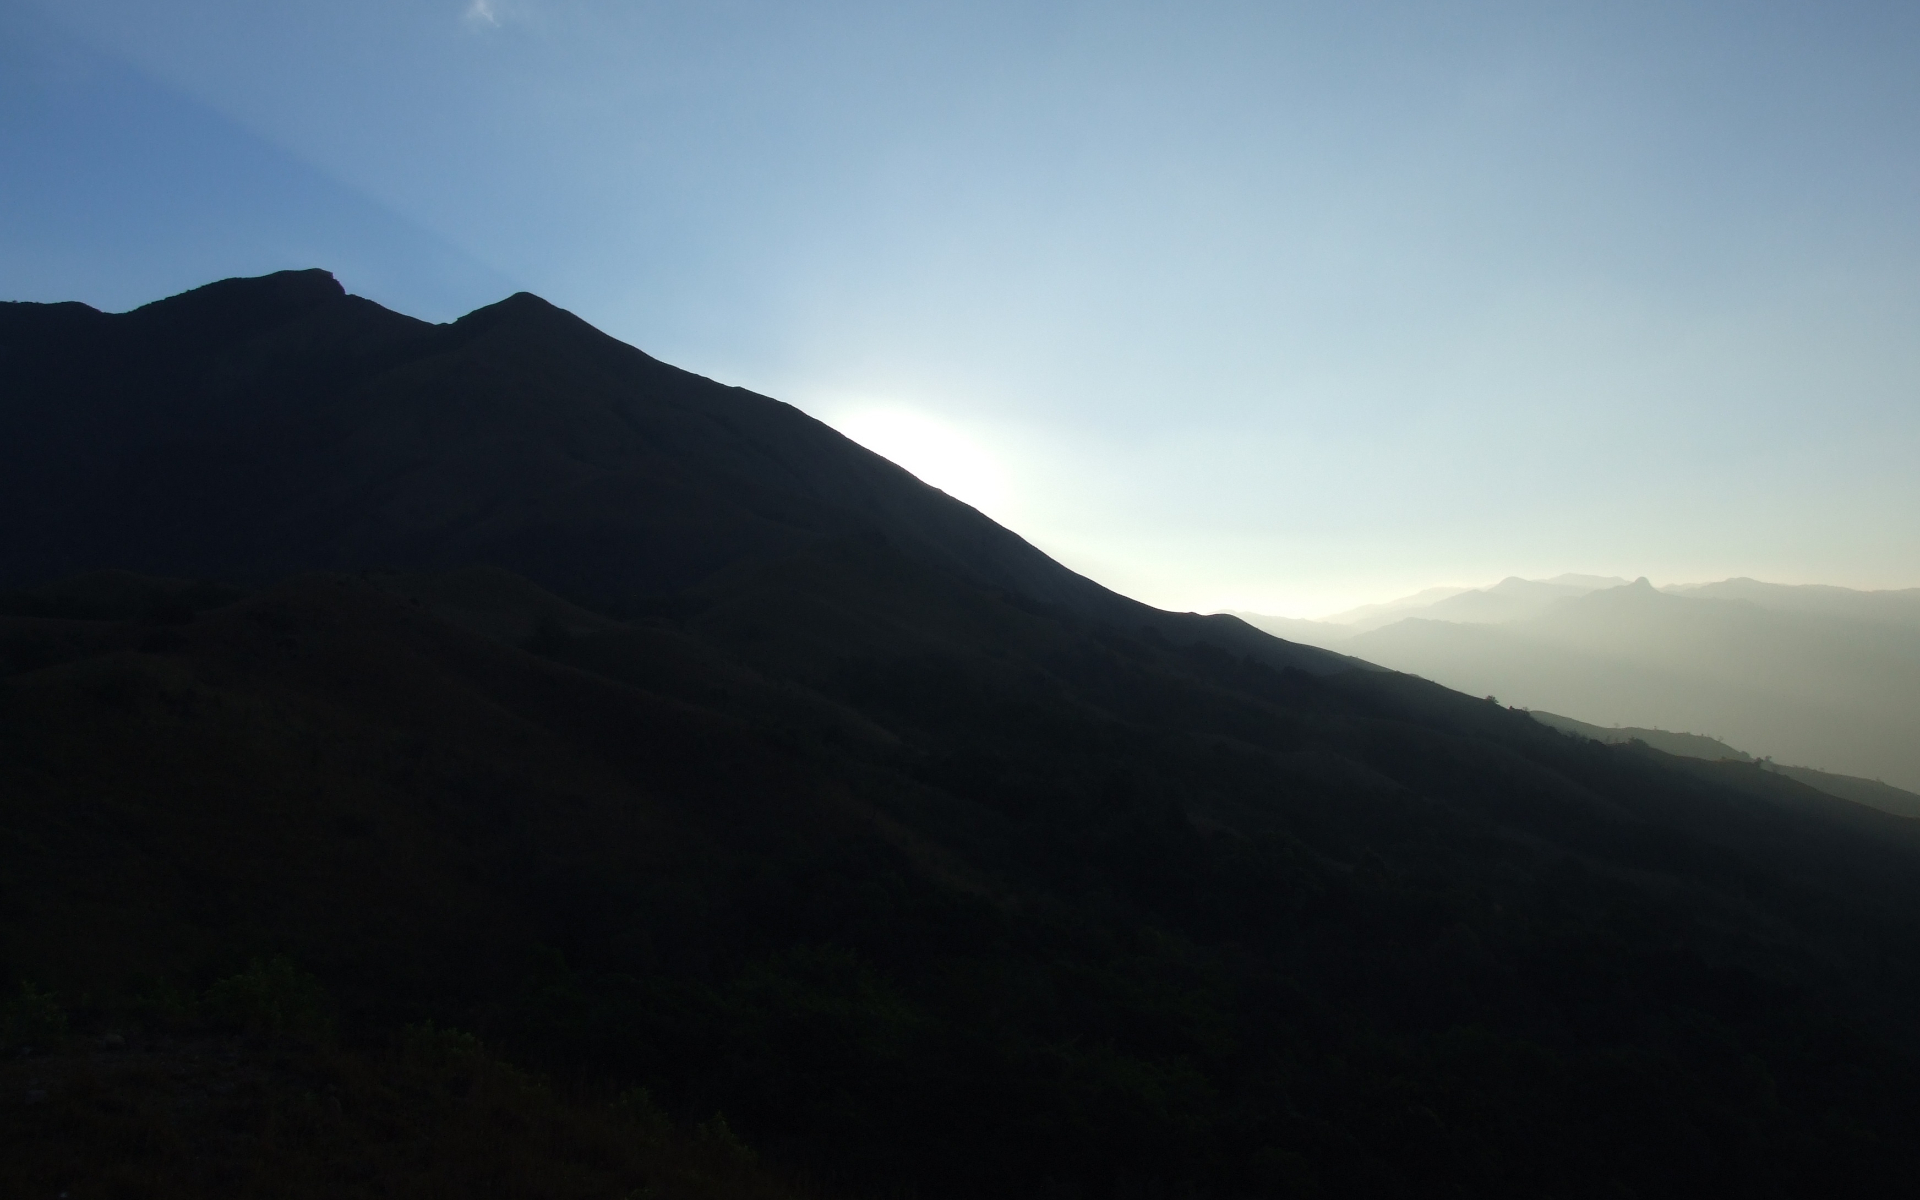
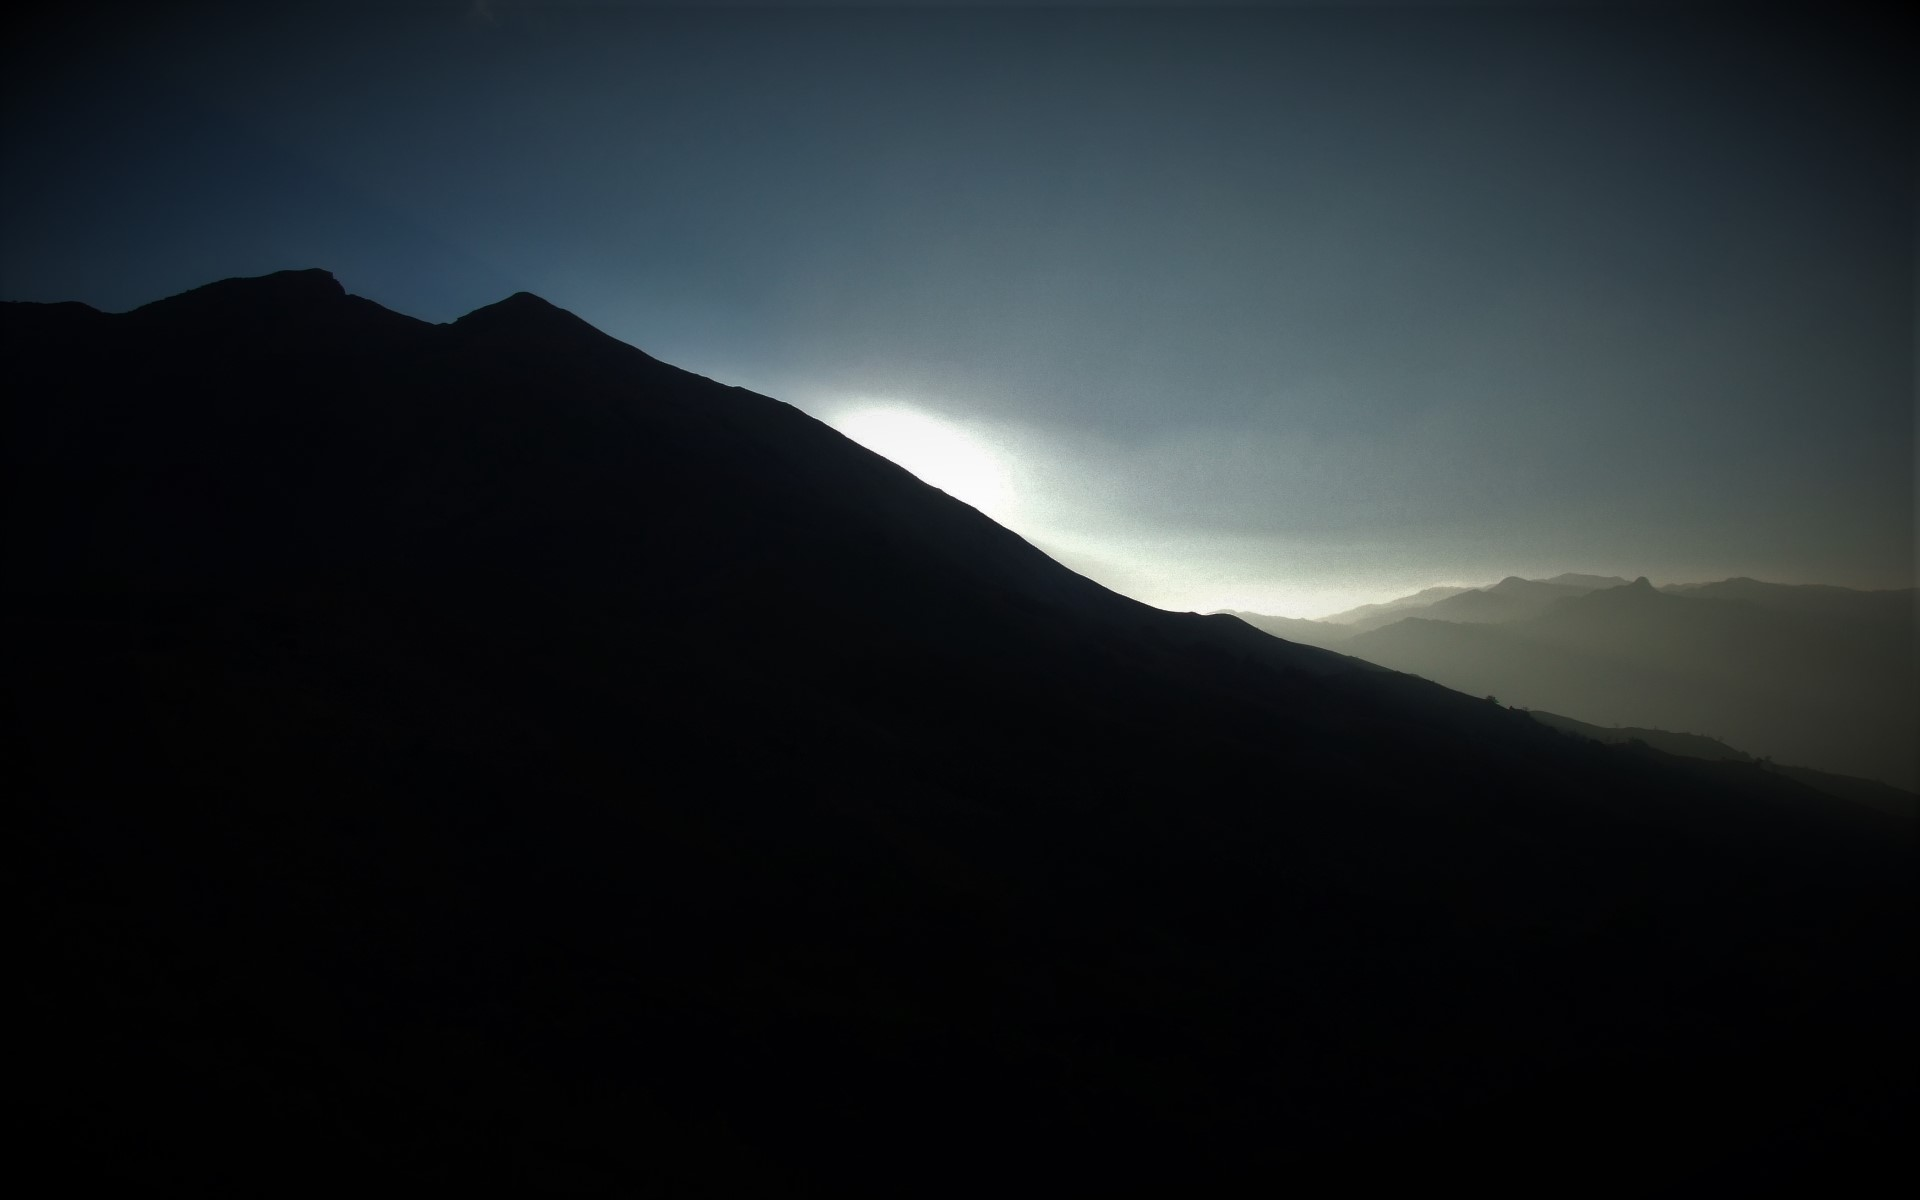
background updates

diff --git a/index.html b/index.html
@@ -64,7 +64,7 @@
         <div class="carousel-inner" role="listbox">
 
           <div class="carousel-item active">
-            <img src="img/hero-bg.jpg" width="100%" height="678px" frameborder="0" style="border:0" allowfullscreen"></img>
+            <img src="img/hero-bg_2.jpg" width="100%" height="678px" frameborder="0" style="border:0" allowfullscreen"></img>
               <div class="hero-container">
                 <div class="wow fadeInUp">
                   <h1>माय मराठी </h1>
@@ -76,8 +76,61 @@
                 </div>
               </div>
           </div>
+          <div class="carousel-item">
+            <img src="img/hero-bg.jpg" width="100%" height="678px" frameborder="0" style="border:0" allowfullscreen"></img>
+              <div class="hero-container">
+                
+                  <h1>माय मराठी </h1>
+                  <h3>IISER Pune's Marathi Club </h3>
+                  <h2>लाभले आम्हास भाग्य बोलतो मराठी </h2>
+                  <h2>जाहलो खरेच धन्य ऐकतो मराठी </h2>
+                  <h2>धर्म, पंथ, जात एक जाणतो मराठी </h2>
+                  <h2>एवढ्या जगात माय मानतो मराठी </h2>
+                
+              </div>
+          </div>
+          <div class="carousel-item">
+            <img src="img/hero-bg_4.jpg" width="100%" height="678px" frameborder="0" style="border:0" allowfullscreen"></img>
+              <div class="hero-container">
+                
+                  <h1>माय मराठी </h1>
+                  <h3>IISER Pune's Marathi Club </h3>
+                  <h2>लाभले आम्हास भाग्य बोलतो मराठी </h2>
+                  <h2>जाहलो खरेच धन्य ऐकतो मराठी </h2>
+                  <h2>धर्म, पंथ, जात एक जाणतो मराठी </h2>
+                  <h2>एवढ्या जगात माय मानतो मराठी </h2>
+                
+              </div>
+          </div>
+          <div class="carousel-item">
+            <img src="img/hero-bg_5.jpg" width="100%" height="678px" frameborder="0" style="border:0" allowfullscreen"></img>
+              <div class="hero-container">
+                
+                  <h1>माय मराठी </h1>
+                  <h3>IISER Pune's Marathi Club </h3>
+                  <h2>लाभले आम्हास भाग्य बोलतो मराठी </h2>
+                  <h2>जाहलो खरेच धन्य ऐकतो मराठी </h2>
+                  <h2>धर्म, पंथ, जात एक जाणतो मराठी </h2>
+                  <h2>एवढ्या जगात माय मानतो मराठी </h2>
+                
+              </div>
+          </div>
+          <div class="carousel-item ">
+            <img src="img/hero-bg_6.jpg" width="100%" height="678px" frameborder="0" style="border:0" allowfullscreen"></img>
+              <div class="hero-container">
+                
+                  <h1>माय मराठी </h1>
+                  <h3>IISER Pune's Marathi Club </h3>
+                  <h2>लाभले आम्हास भाग्य बोलतो मराठी </h2>
+                  <h2>जाहलो खरेच धन्य ऐकतो मराठी </h2>
+                  <h2>धर्म, पंथ, जात एक जाणतो मराठी </h2>
+                  <h2>एवढ्या जगात माय मानतो मराठी </h2>
+                
+              </div>
+          </div>
         </div>
       </div>
+    </div>
   </section><!-- #hero -->
 
   <main id="main">
@@ -95,6 +148,7 @@
     <div class="container">
       
       <div class="row about-container">
+      
           
         <div class="col-lg-6 content order-lg-1 order-2">
           <div class="wow fadeInLeft">

diff --git a/css/style.css b/css/style.css
@@ -43,7 +43,7 @@ h1,h2, h3, h4, h5, h6 {
 .back-to-top {
   position: fixed;
   display: none;
-  background: rgba(0, 0, 0, 0.2);
+  background: rgba(0, 0, 0, 0.1);
   color: #fff;
   padding: 6px 12px 9px 12px;
   font-size: 16px;
@@ -143,7 +143,7 @@ h1,h2, h3, h4, h5, h6 {
 
 #hero:before {
   content: "";
-  background: rgba(0, 0, 0, 0.6);
+  background: rgba(238, 10, 10, 0.1);
   position: absolute;
   bottom: 0;
   top: 0;
@@ -328,6 +328,7 @@ h1,h2, h3, h4, h5, h6 {
 }
 
 .sf-arrows .sf-with-ul:after {
+
   content: "\f107";
   position: absolute;
   right: 15px;
@@ -388,6 +389,7 @@ h1,h2, h3, h4, h5, h6 {
   visibility: visible;
   -webkit-transform: scaleX(1);
   transform: scaleX(1);
+  color: #fff;
 }
 
 .nav-menu ul {
@@ -405,7 +407,7 @@ h1,h2, h3, h4, h5, h6 {
 
 .nav-menu ul li a {
   padding: 10px;
-  color: #333;
+  color: #222;
   transition: 0.3s;
   display: block;
   font-size: 13px;
@@ -438,7 +440,7 @@ h1,h2, h3, h4, h5, h6 {
 }
 
 #mobile-nav-toggle i {
-  color: #fff;
+  color: orangered;
 }
 
 @media (max-width: 768px) {
@@ -472,7 +474,7 @@ h1,h2, h3, h4, h5, h6 {
 }
 
 #mobile-nav ul li a {
-  color: #fff;
+  color: orangered;
   font-size: 16px;
   overflow: hidden;
   padding: 10px 22px 10px 15px;

diff --git a/js/main.js b/js/main.js
@@ -1,5 +1,4 @@
 jQuery(document).ready(function ($) {
-
   // Header fixed and Back to top button
   $(window).scroll(function () {
     if ($(this).scrollTop() > 100) {
